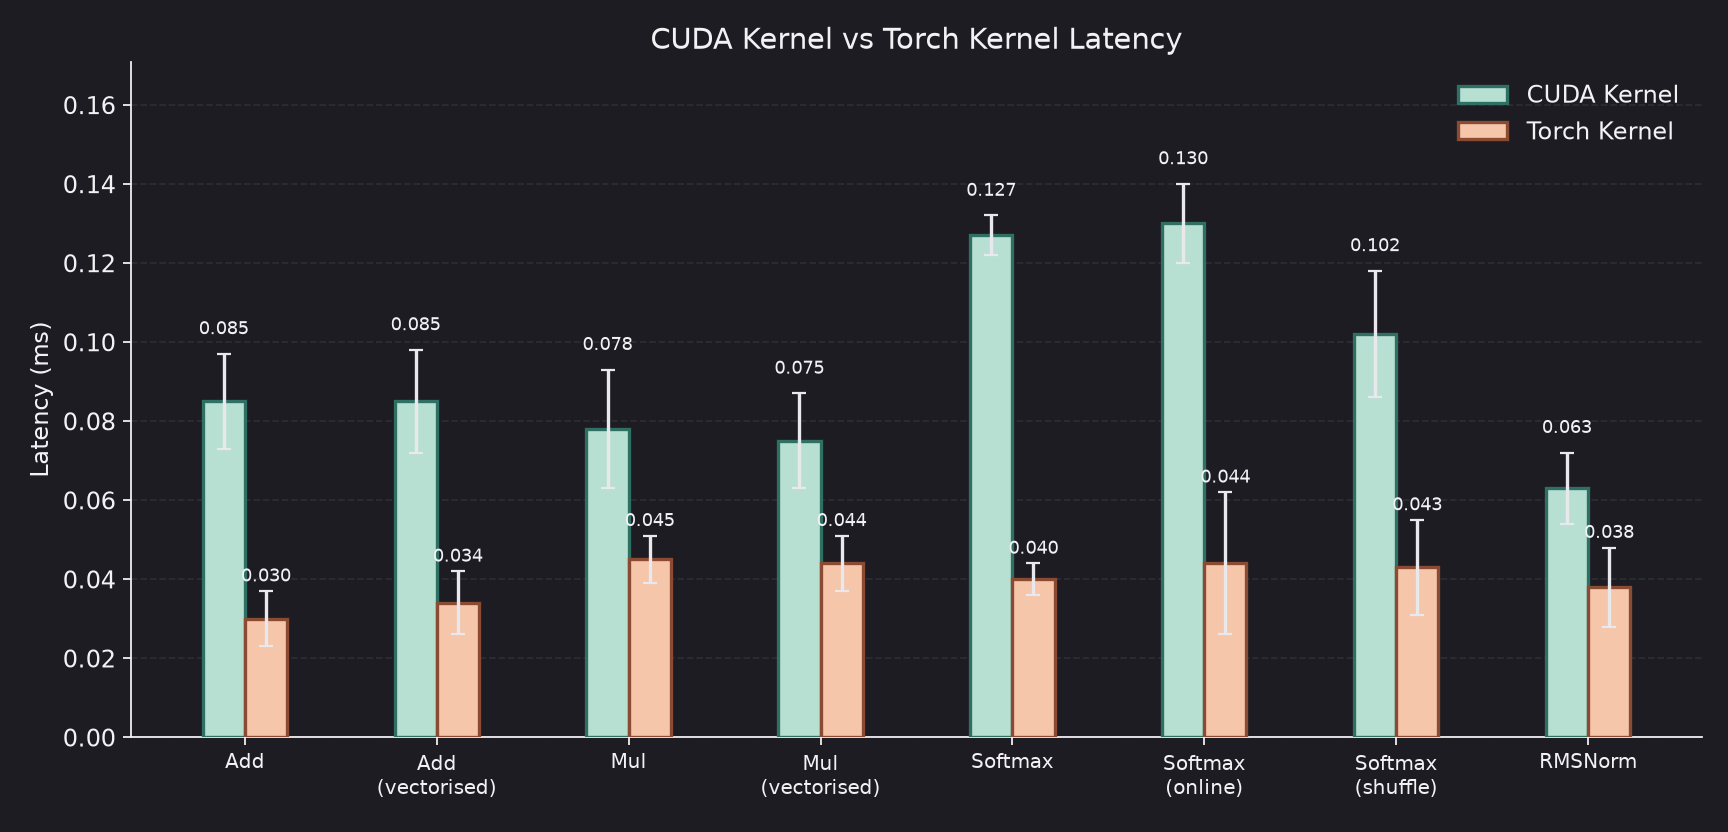
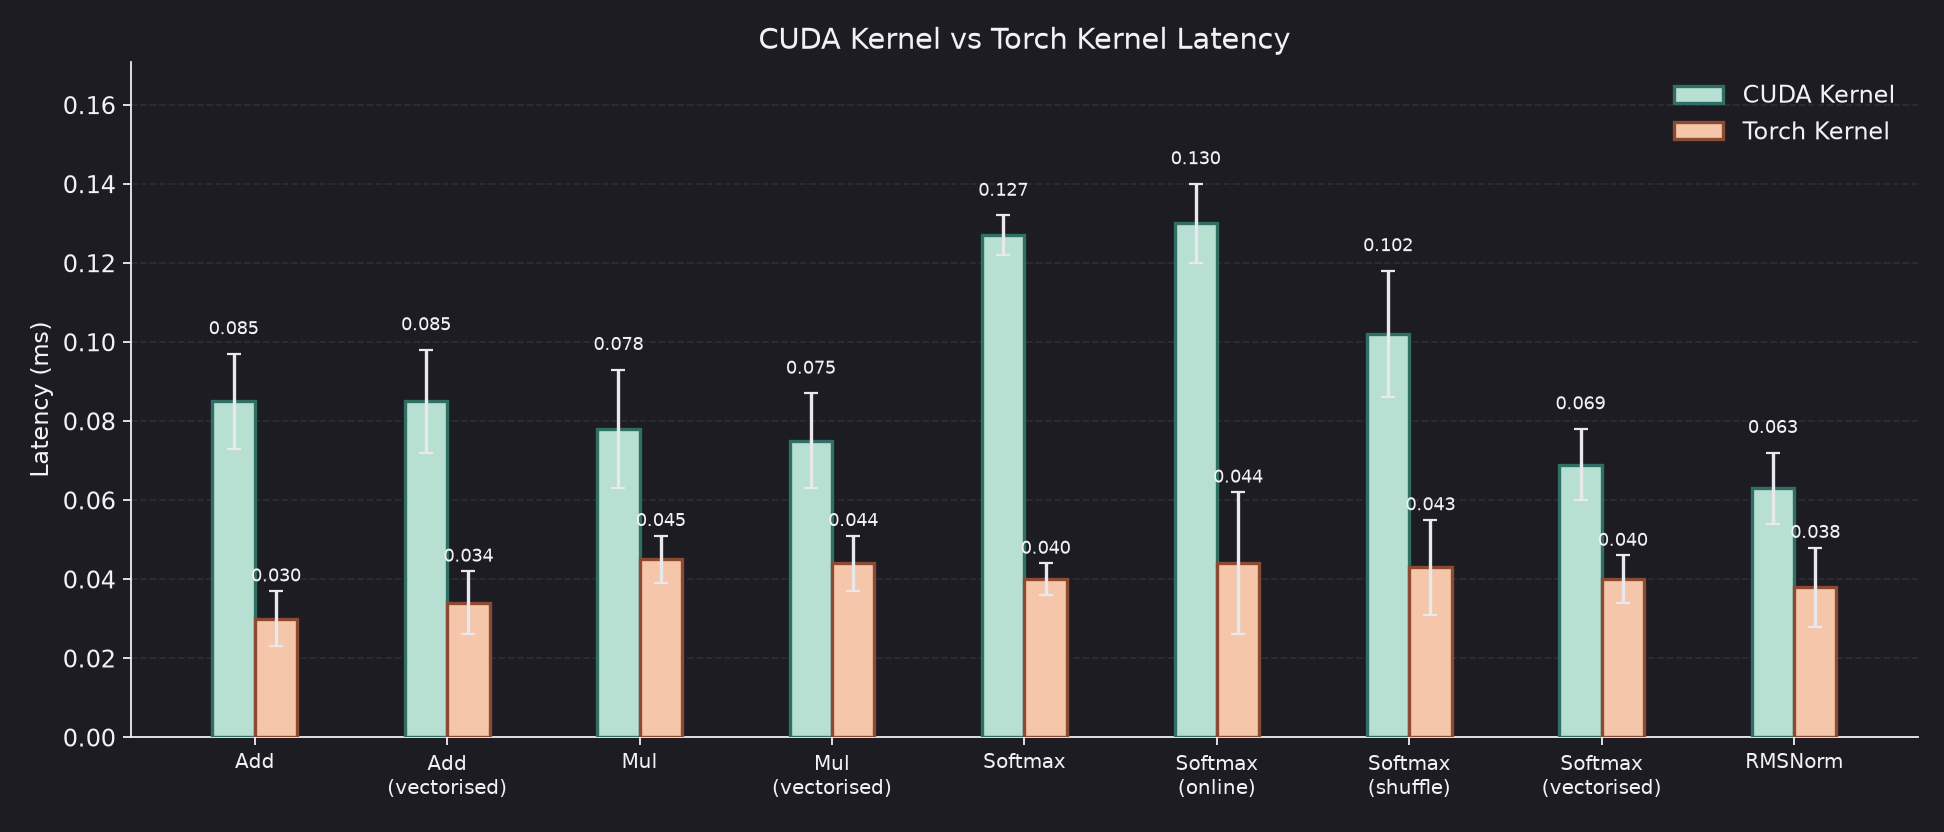
backward, tests and profiling done

diff --git a/tests/kernels/test_softmax.py b/tests/kernels/test_softmax.py
@@ -87,3 +87,15 @@ class TestSoftmax:
         out_cuda = softmax_op(x)
         out_torch = F.softmax(x, dim=-1)
         torch.testing.assert_close(out_cuda, out_torch)
+
+    def test_softmax_bwd_tail(self, device, softmax_op):
+        """Backward through N % 4 != 0 rows vs torch."""
+        x = torch.randn(2, 4, 5, dtype=torch.float32, device=device)
+        x_cuda = x.detach().clone().requires_grad_(True)
+        x_torch = x.detach().clone().requires_grad_(True)
+        grad_out = torch.randn_like(x_cuda)
+
+        softmax_op(x_cuda).backward(grad_out)
+        F.softmax(x_torch, dim=-1).backward(grad_out)
+
+        torch.testing.assert_close(x_cuda.grad, x_torch.grad)

diff --git a/profiling/plot_layer0.py b/profiling/plot_layer0.py
@@ -47,6 +47,7 @@ LABELS = {
     "softmax": "Softmax",
     "softmax_online": "Softmax\n(online)",
     "softmax_shuffle": "Softmax\n(shuffle)",
+    "softmax_vectorize": "Softmax\n(vectorised)",
     "rmsnorm": "RMSNorm",
 }
 

diff --git a/docker/changes.md b/docker/changes.md
@@ -34,6 +34,8 @@ v0.0.11 - Testing online softmax (new test for casual mask added).
 
 v0.0.12 - Testing shuffle reduction.
 
+v0.0.13 - Testing vec loads for softmax.
+
 ### CUDA Smoke Tests
 
 v0.0.1 - First smoke test for elementwise addition and multiplication.
@@ -80,7 +82,9 @@ v0.0.13 - Elementwise vectorised loads.
 
 v0.0.14 - Online softmax
 
-v0.0.15 - Shuffle reduction.
+v0.0.15 - Shuffle reduction (softmax).
+
+v0.0.16 - Vec loading (softmax).
 
 ### Profiling Layer 1
 

diff --git a/profiling/results/profiling_layer_0.md b/profiling/results/profiling_layer_0.md
@@ -262,6 +262,18 @@ Torch:    780.28 GB/s
 
 ```
 
+- Softmax Profile (vectorised loads):
+
+```python
+kernel:   softmax  (64, 256, 256)
+CUDA:     0.069 ± 0.009 ms
+Torch:    0.040 ± 0.006 ms
+slowdown: 1.7x
+CUDA:     483.13 GB/s
+Torch:    841.16 GB/s
+
+```
+
 - RMSNorm Profile:
 
 ```python
